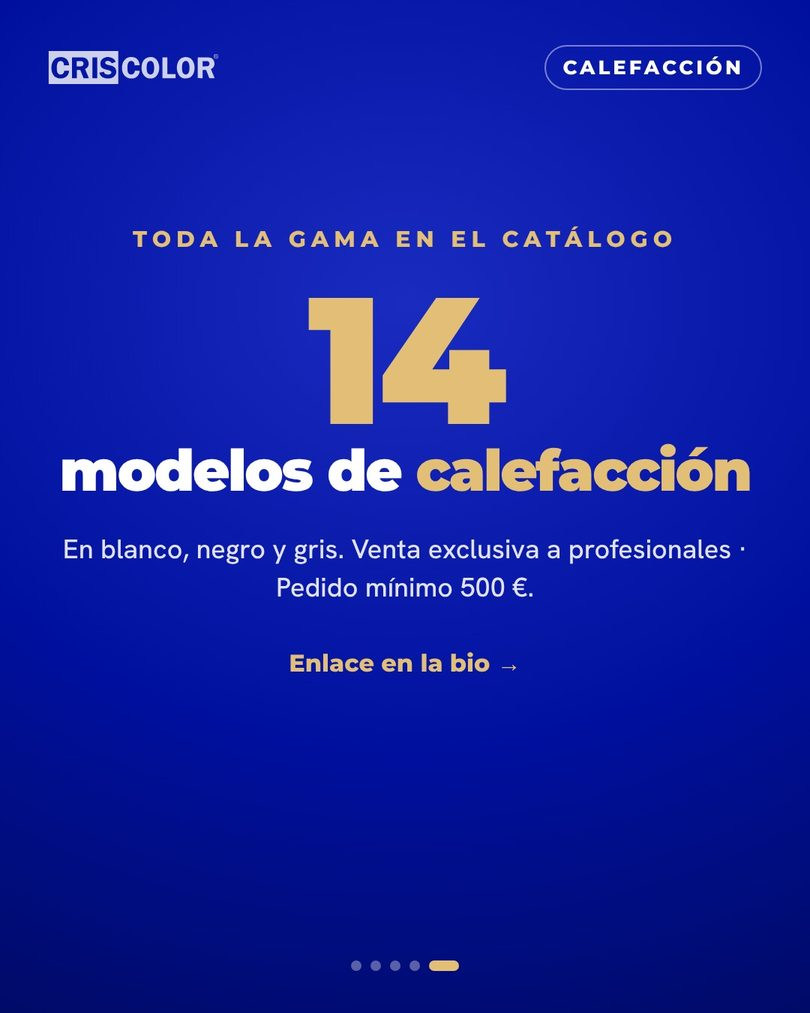
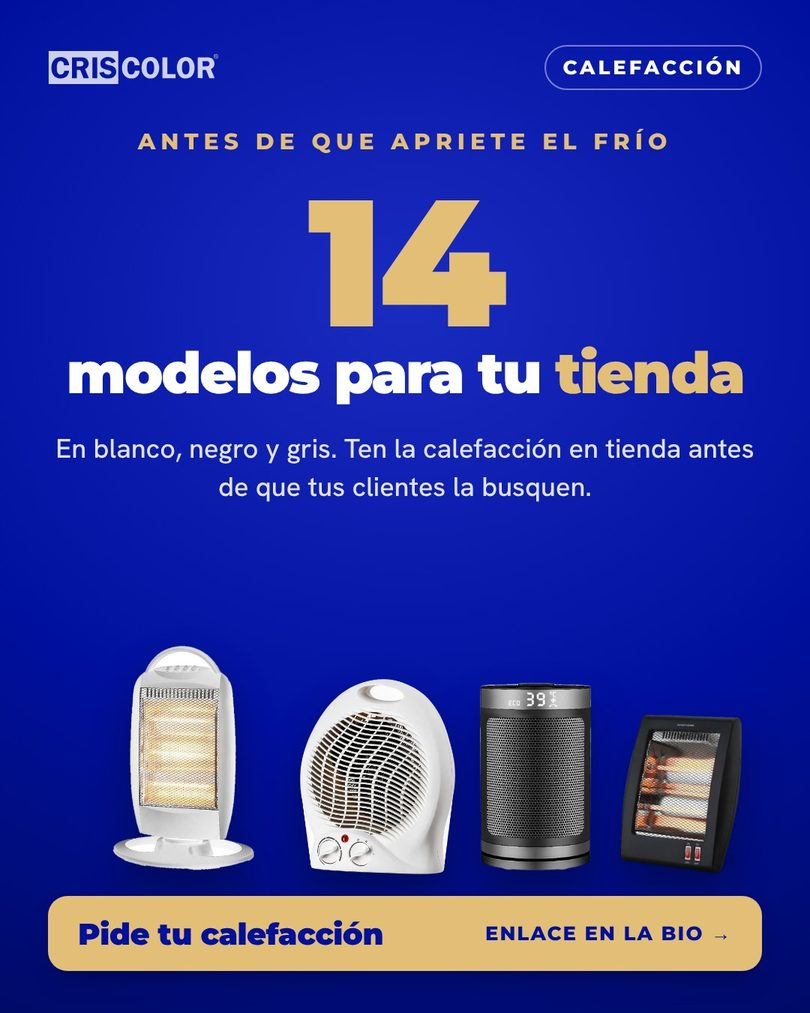
Semana 2–6 nov rehecha con enfoque de venta a tiendas; aprobados reiniciados (w45-v2)
Claude-Session: https://claude.ai/code/session_016vX2tAnYJNsb3voomsbycX

diff --git a/data/weeks.js b/data/weeks.js
@@ -1,50 +1,62 @@
-/* Contenido por semanas. Para añadir una semana: copia un bloque, cambia id/fechas y sube las imágenes a /img con el nombre <id>-<n>.jpg */
+/* Contenido por semanas. Imágenes en /img como <id>-<n>.jpg. Cambiar el id de la semana reinicia sus aprobados. */
 window.WEEKS = [
- { id:'w45', label:'Semana 45 · 2–6 nov', title:'Semana del <em>2 al 6</em> de noviembre', items:[
-  { id:'s45-lun', v:3, type:'story', day:'Lunes', date:'2 nov', title:'Junto a la caja', n:3,
-    goal:'Arrancamos la semana con información útil para el tendero: el sitio de la tienda que más vende sin esfuerzo, qué poner en él y cómo organizarlo.',
-    notes:['3 historias: el dato (el metro cuadrado que más vende), 3 productos de impulso con referencia (lazos estrella 43030, gafas Árbol 45035 y cañón de confeti 44251) y 3 reglas para la zona de caja.','En la 3ª va el sticker de enlace «Ver catálogo».','Hora recomendada: 9:30.'] },
-  { id:'p45-mar', v:2, type:'post', day:'Martes', date:'3 nov', title:'Qué calefactor vender a cada cliente', n:5,
-    goal:'Carrusel de valor con la gama de calefacción, que es lo primero que se vende cuando llega el frío: tres perfiles de cliente y qué modelo recomendar a cada uno.',
-    copy:`¿Qué calefactor le vendes a cada cliente? 🔥
-
-Cuando llega el frío, la pregunta en tienda siempre es la misma. Te lo ponemos fácil con 3 perfiles:
-
-🛋 El que quiere calentar el salón → calefactores de 2000 W con aire frío, tibio y caliente (Atlas, Andes y Fuji).
-
-💻 El que trabaja → cerámicos PTC de mesa, compactos y con termostato ajustable (Everest, Elbrus y Elbrus Plus).
-
-⚡ El que lo quiere ya → estufas de cuarzo plegables y con asa (Pirineo, Himalaya y Teide).
-
-14 modelos de calefacción en blanco, negro y gris. Venta exclusiva a profesionales · pedido mínimo 500 €.
-
-👉 Toda la gama en el enlace de la bio.
-
-#Criscolor #Calefaccion #Calefactores #EstufaDeCuarzo #MayoristaValencia #ComercioLocal #Invierno2026`,
-    notes:['Carrusel de 5 diapositivas 4:5.','Hora recomendada: 13:00.','En la bio, el enlace debe apuntar a la familia Calefacción del catálogo.'] },
-  { id:'s45-mie', type:'story', day:'Miércoles', date:'4 nov', title:'¿Qué calefactor le recomiendas a tu cliente?', n:4,
-    goal:'Guía rápida de calefacción para la tienda: tres opciones según el uso (salón, mesa, calor al momento), con referencias reales.',
-    notes:['4 historias: portada + 3 opciones con referencia, potencia y colores.','En la 4ª va el sticker de enlace «Ver calefacción».','Hora recomendada: 18:30.'] },
-  { id:'p45-jue', v:2, type:'post', day:'Jueves', date:'5 nov', title:'Tu temporada, mes a mes', n:5,
-    goal:'Carrusel para que el tendero planifique sus pedidos: qué tener en tienda en cada momento, del primer frío a Reyes. Pensado para que lo guarden.',
-    copy:`Tu temporada, mes a mes 📅
-
-Del primer frío a Reyes, esto es lo que conviene tener en tienda en cada momento:
-
-❄ Noviembre · llega el frío: primero, la calefacción.
-
-🎁 Diciembre · regalar: papel, bolsas, lazos y cajas, lo que se vende cada día.
-
-🥂 31 de diciembre: confeti, gafas y vajilla dorada para Nochevieja.
-
-👑 Hasta el 6 de enero: globos gigantes y papel de Reyes para alargar la campaña.
-
-📌 Guárdalo y planifica tus pedidos con tiempo. Todo el catálogo, en el enlace de la bio.
-
-#Criscolor #Navidad2026 #Nochevieja #ReyesMagos #IdeasParaTiendas #ComercioLocal #MayoristaNavidad`,
-    notes:['Carrusel de 5 diapositivas 4:5.','Hora recomendada: 13:00.'] },
-  { id:'s45-vie', v:3, type:'story', day:'Viernes', date:'6 nov', title:'Criscolor en datos', n:2,
-    goal:'Cerramos la semana explicando qué ofrece Criscolor en esta campaña y cómo se trabaja con nosotros, incluida la tienda online para pedidos pequeños.',
-    notes:['2 historias: las 12 familias de la campaña de invierno y cómo pedir (solo profesionales, pedido mínimo 500 € y pedidos al por menor en la tienda online).','En la 2ª, justo debajo de «Clicando aquí 👇», va el sticker de enlace a la tienda online (https://moonecommerce.com/shop).','Hora recomendada: 12:00.'] }
- ]}
+ {
+  "id": "w45-v2",
+  "label": "Semana 45 · 2–6 nov",
+  "title": "Semana del <em>2 al 6</em> de noviembre",
+  "items": [
+   {
+    "id": "s45-lun",
+    "v": 4,
+    "type": "story",
+    "day": "Lunes",
+    "date": "2 nov",
+    "title": "Junto a la caja",
+    "n": 3,
+    "notes": []
+   },
+   {
+    "id": "p45-mar",
+    "v": 4,
+    "type": "post",
+    "day": "Martes",
+    "date": "3 nov",
+    "title": "La calefacción que van a pedirte",
+    "n": 5,
+    "notes": [],
+    "copy": "La calefacción que van a pedirte 🔥\n\nYa llega el frío y tus clientes empiezan a buscar calefactor. Tenlo en tienda antes que nadie:\n\n🛋 Para el salón · calefactores de 2000 W con aire frío, tibio y caliente (Atlas 44884, Andes 44886, Fuji 44890).\n💻 Para el escritorio · cerámicos de mesa con termostato (Everest 44897, Elbrus 44947, Elbrus Plus 44948).\n⚡ Calor al momento · estufas de cuarzo plegables y con asa (Pirineo 44891, Himalaya 44894, Teide 44895).\n\n14 modelos en blanco, negro y gris. 👉 Pide tu calefacción desde el enlace de la bio.\n\n#Criscolor #MayoristaNavidad #Bazares #TiendasDeBarrio #ComercioLocal #Navidad2026 #Calefaccion"
+   },
+   {
+    "id": "s45-mie",
+    "v": 4,
+    "type": "story",
+    "day": "Miércoles",
+    "date": "4 nov",
+    "title": "Llega el frío",
+    "n": 4,
+    "notes": []
+   },
+   {
+    "id": "p45-jue",
+    "v": 4,
+    "type": "post",
+    "day": "Jueves",
+    "date": "5 nov",
+    "title": "Pide a tiempo, vende más",
+    "n": 5,
+    "notes": [],
+    "copy": "Pide a tiempo, vende más 📅\n\n❄ Noviembre: primero, la calefacción.\n🎁 Diciembre: papel, bolsas, lazos y cajas.\n🥂 31 de diciembre: confeti, gafas y vajilla dorada.\n👑 Hasta el 6 de enero: globos y papel de Reyes.\n\nQue no te falte nada en el momento clave. 👉 Haz tu pedido desde el enlace de la bio.\n\n#Criscolor #MayoristaNavidad #Bazares #TiendasDeBarrio #ComercioLocal #Navidad2026"
+   },
+   {
+    "id": "s45-vie",
+    "v": 4,
+    "type": "story",
+    "day": "Viernes",
+    "date": "6 nov",
+    "title": "Pedir es fácil",
+    "n": 2,
+    "notes": []
+   }
+  ]
+ }
 ];

diff --git a/index.html b/index.html
@@ -31,7 +31,7 @@
   </form>
 </div>
 
-<script src="/data/weeks.js?v=5"></script>
+<script src="/data/weeks.js?v=6"></script>
 <script src="/assets/app.js?v=4"></script>
 </body>
 </html>
